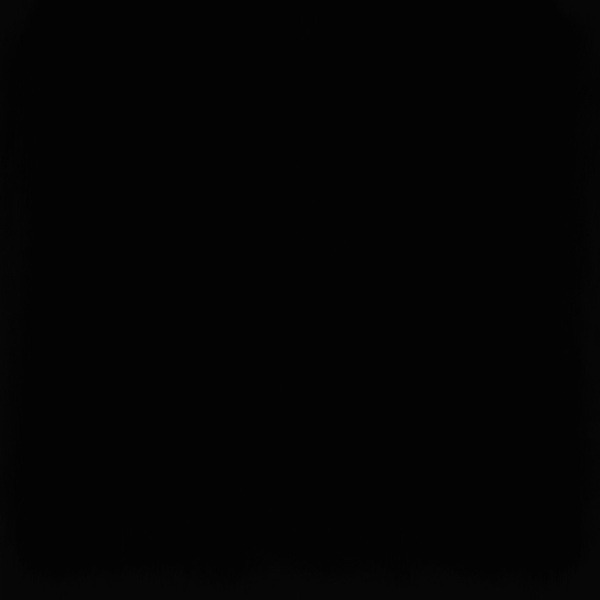
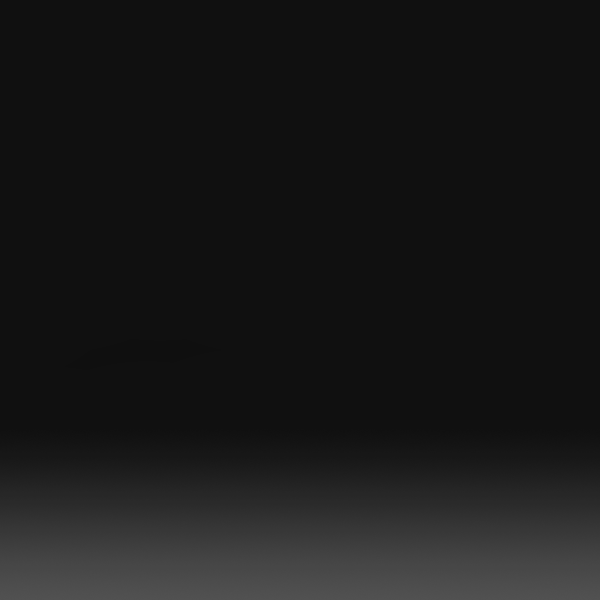
background image added
grainy af though

Changed region(s): [[0.0, 0.78, 1.0, 1.0]]

diff --git a/src/Game.java b/src/Game.java
@@ -6,7 +6,7 @@
 
 import java.awt.*;
 import java.awt.event.*;
-
+import java.awt.image.BufferedImage;
 import java.io.*;
 import java.io.File;
 import java.io.FilenameFilter;
@@ -27,7 +27,7 @@ public class Game extends JPanel implements ActionListener, KeyListener{
 	private int score;
 	private JLabel label;
 	
-	private static ImageIcon image;
+	private static BufferedImage image;
 
 	
 	public static void GameSetup(){
@@ -41,12 +41,12 @@ public class Game extends JPanel implements ActionListener, KeyListener{
 			gameMenu.add_button(i.title);
 		}
 		
-		//try{
-		//	image= ImageIO.read(new File("bin/Untitled-2.png"));
-		//}catch(Exception e)
-		//{
-		//	e.printStackTrace();
-		//}
+		try{
+			image= ImageIO.read(new File("src/Assets/background.png"));
+		}catch(Exception e)
+		{
+			e.printStackTrace();
+		}
 		
 		GameFrame.add(gameMenu);
 		gameMenu.revalidate();
@@ -63,10 +63,6 @@ public class Game extends JPanel implements ActionListener, KeyListener{
 		addKeyListener(this);
 		setLayout(null);
 		//why = new DrawPanel();
-		image = new ImageIcon("bin/Unititled-2.png");
-		label = new JLabel(image);
-		this.add(label);
-		label.setLocation(0, 0);
 		this.repaint();
 		this.revalidate();
 		song.addMap();
@@ -84,7 +80,7 @@ public class Game extends JPanel implements ActionListener, KeyListener{
 	
 	public void paintComponent(Graphics g){
 		super.paintComponent(g);
-		//g.drawImage(image, 0, 0, this);
+		g.drawImage(image, 0, 0, null);
 		g.setColor(Color.BLACK);
 		g.drawLine(100, 0, 100, 600);
 		g.drawLine(100*2, 0, 100*2, 600);
